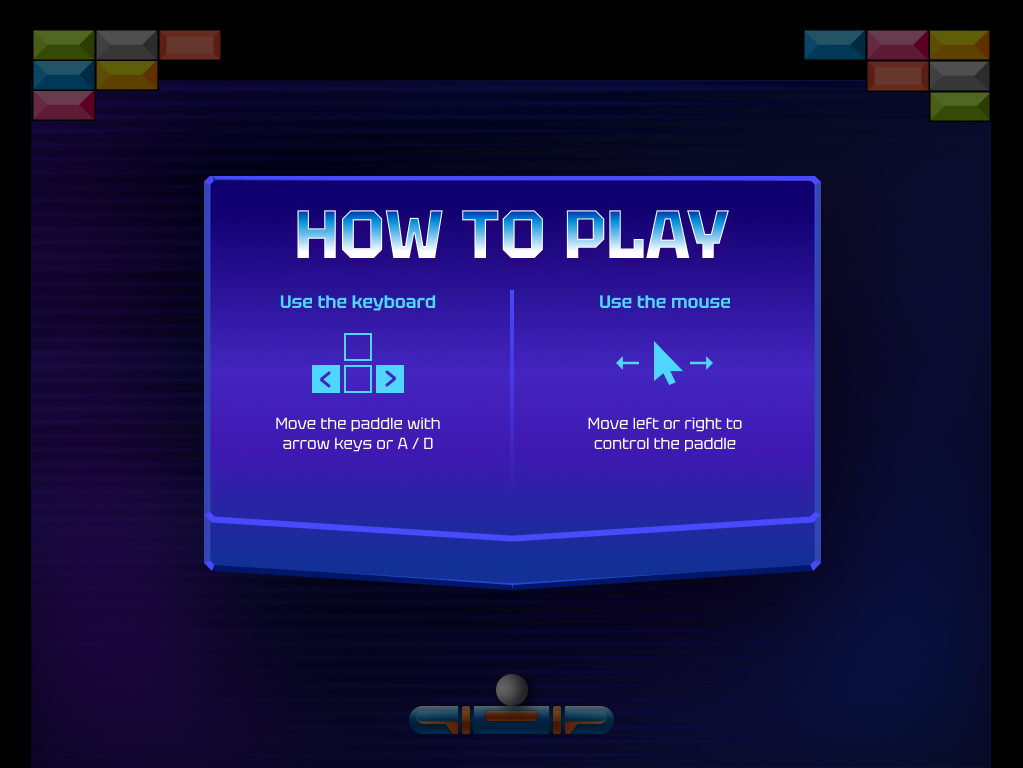
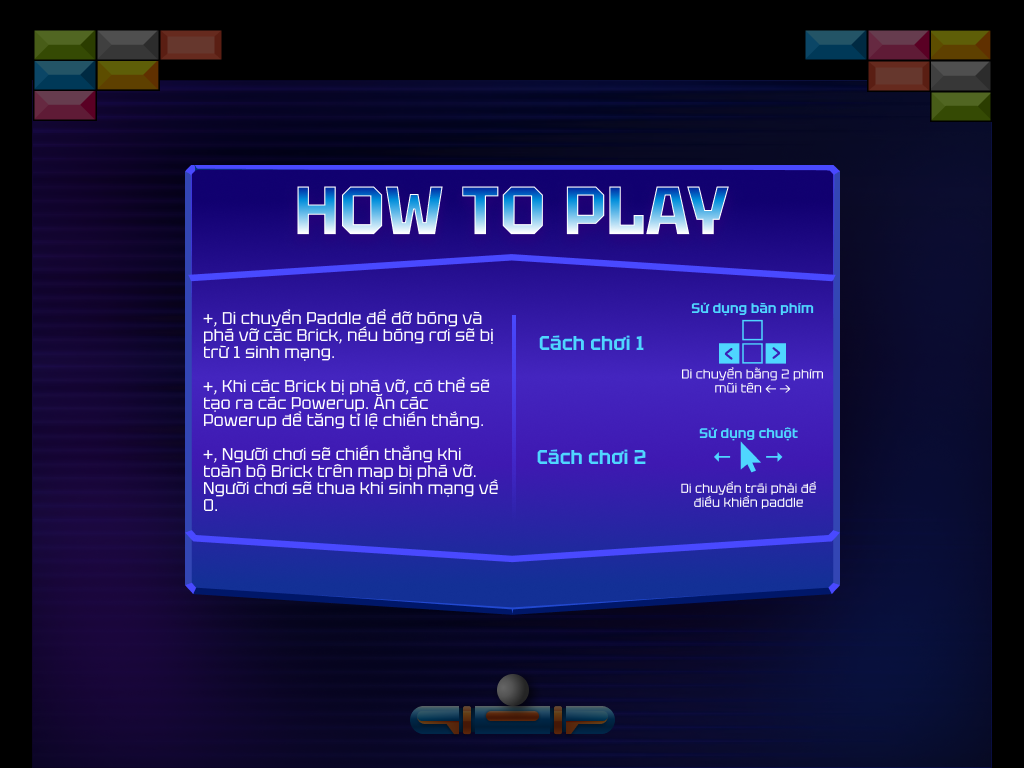
Đổi màn hướng dẫn

Changed region(s): [[0.1818, 0.1875, 0.8182, 0.8125], [0.0909, 0.0625, 0.1212, 0.125], [0.0303, 0.0938, 0.0606, 0.1562]]

diff --git a/src/main/java/game/view/screens/TutorialScreen.java b/src/main/java/game/view/screens/TutorialScreen.java
@@ -17,19 +17,19 @@ public class TutorialScreen extends Screen {
         super(ScreenType.TUTORIAL);
         this.model = model;
         setPreferredSize(new Dimension(Constants.SCREEN_WIDTH, Constants.SCREEN_HEIGHT));
-        loadBackground("bg/tutorialScreen.png");
+        loadBackground("bg/TutorialScreen.png");
     }
 
     @Override
     public void initUI() {
-        uiManager.add(new UIButton(Constants.SCREEN_WIDTH / 2 - BUTTON_WIDTH / 2, Constants.SCREEN_HEIGHT / 2 + 120,
-                BUTTON_WIDTH, BUTTON_HEIGHT,
-                "button_start",
-                () -> {
-                    model.initGame();
-                    model.getGameStateManager().setGameActive();
-                }) //action chạy khi click vào nút
-        );
+//        uiManager.add(new UIButton(Constants.SCREEN_WIDTH / 2 - BUTTON_WIDTH / 2, Constants.SCREEN_HEIGHT / 2 + 120,
+//                BUTTON_WIDTH, BUTTON_HEIGHT,
+//                "button_start",
+//                () -> {
+//                    model.initGame();
+//                    model.getGameStateManager().setGameActive();
+//                }) //action chạy khi click vào nút
+//        );
         uiManager.add(new UIButton(Constants.SCREEN_WIDTH - 220, Constants.SCREEN_HEIGHT / 2 - 230,
                 42, 42,
                 "button_close",
